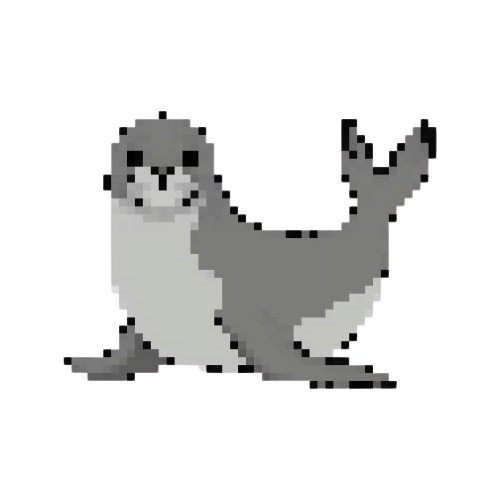
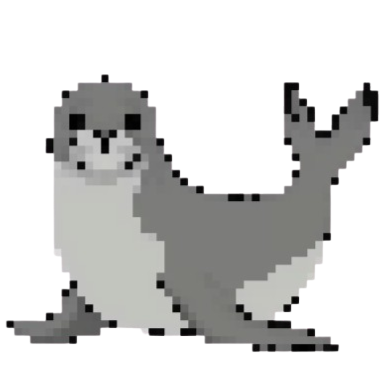
minor tweaks

Changed region(s): [[0.0, 0.1856, 0.9897, 0.9278]]

diff --git a/src/game.py b/src/game.py
@@ -113,14 +113,14 @@ class Game:
             case "searching":
                 self.display.screen.blit(self.display.call_button, (750, 300))
             case "peeking": # animal partially visible
-                self.display.draw_object(self.encounter_result, (810, 150))
+                self.display.draw_object(self.encounter_result, (860, 150))
                 self.display.screen.blit(self.display.call_button, (750, 300))
                 self.display.draw_text(f"{self.cur_animal.name}", (450, 50))
                 self.display.screen.blit(self.display.dialogue_layer, (0, 420))
                 self.display.draw_text(f"{self.cur_animal.name} is hiding, lets encourage it to come out!", (50, 450))
             case "encountered": # animal caught!
-                self.display.draw_object(self.encounter_result, (270, 130))
-                self.display.screen.blit(self.display.begin_button, (450, 350))
+                self.display.draw_object(self.encounter_result, (400, 130))
+                self.display.screen.blit(self.display.begin_button, (450, 370))
                 self.display.draw_text(f"{self.cur_animal.name}", (450, 50))
             case "ran away":
                 self.display.screen.blit(self.display.dialogue_layer, (0, 420))

diff --git a/src/animals.py b/src/animals.py
@@ -37,7 +37,7 @@ class Animal:
         # the chance should go down by 0.15 every 5 levels
         # ensure it does not go bellow the minimum chance
         else:
-            escape_chance = max(min_chances[self.rarity], base_chances[self.rarity] - 0.15 * ((player_level-1) // 5))
+            escape_chance = max(min_chances[self.rarity], base_chances[self.rarity] - 0.15 * ((player_level-1) // 4))
         # returns true escape_chance% of the time
         return random.random() <= escape_chance
 
@@ -52,7 +52,7 @@ class AnimalManager:
         """ Define all the animals for the game. """
 
         harbour_seal = Animal("harbour seal", 1, "src/images/animals/seal.png", SealNetGame)
-        grey_seal = Animal("grey seal", 5, "src/images/animals/seal.png", SealNetGame)
+        grey_seal = Animal("grey seal", 5, "src/images/animals/GreySeal.png", SealNetGame)
         minke_whale = Animal("minke whale", 3, "src/images/animals/whale.png")
         bottlenose_dolphin = Animal("bottlenose dolphin", 2, "src/images/animals/dolphin.png")
         puffin = Animal("puffin", 4, "src/images/animals/puffin.png")

diff --git a/src/player.py b/src/player.py
@@ -2,11 +2,11 @@
 May be useful to make this save-able. """
 
 class Player:
-    def __init__(self, name="player", level=1, exp=0, coins=0):
+    def __init__(self, name="player", level=0, exp=0, shells=0):
         self.name = name # should probably make this a user input
         self.level = level
         self.exp = exp
-        self.coins = coins
+        self.shells = shells
     
     class Catalogue:
         """ This will record the animals that a player has discovered,

diff --git a/src/display.py b/src/display.py
@@ -43,4 +43,4 @@ class Display:
     def draw_object(self, file, pos):
         """ Add an object to the screen. """
         # may need to make scale args
-        self.screen.blit(self.scale(file, (375, 187)), pos)
+        self.screen.blit(self.scale(file, (220, 220)), pos)
